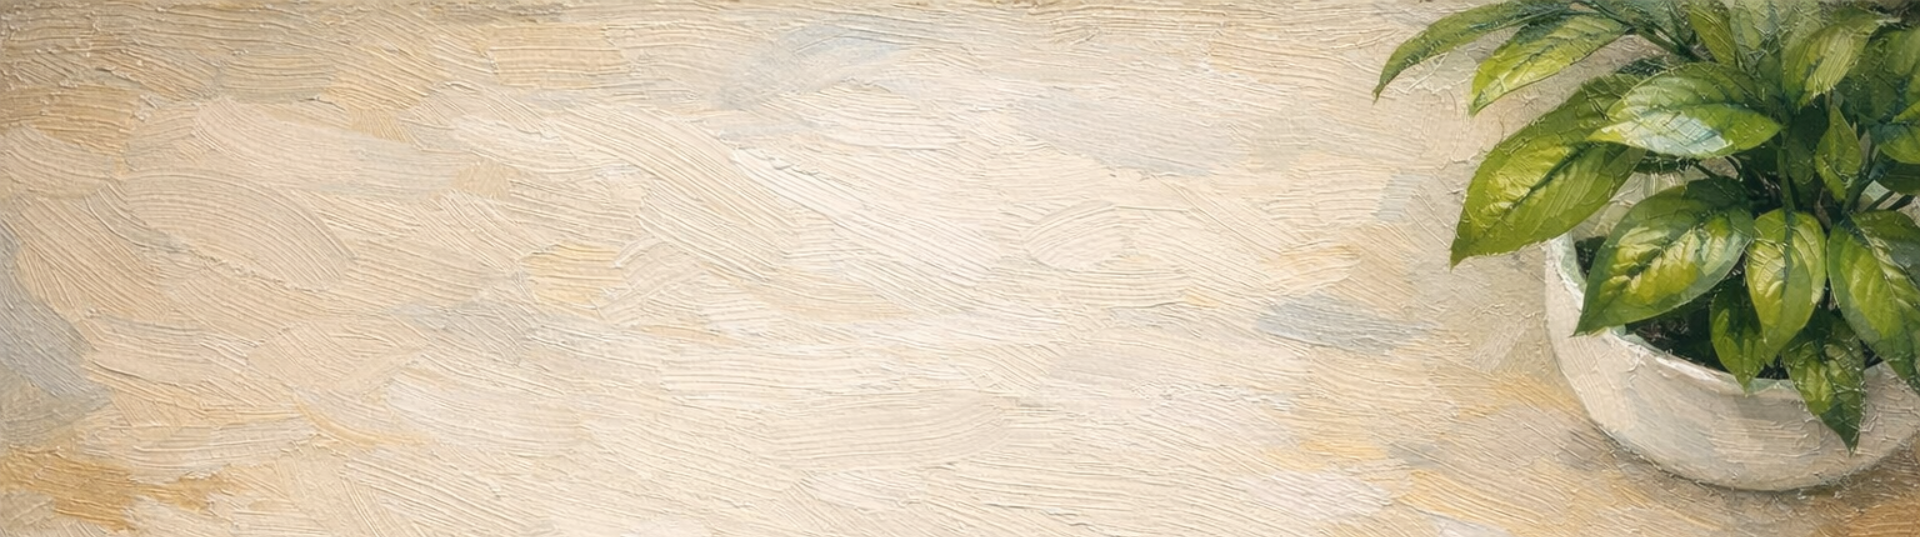
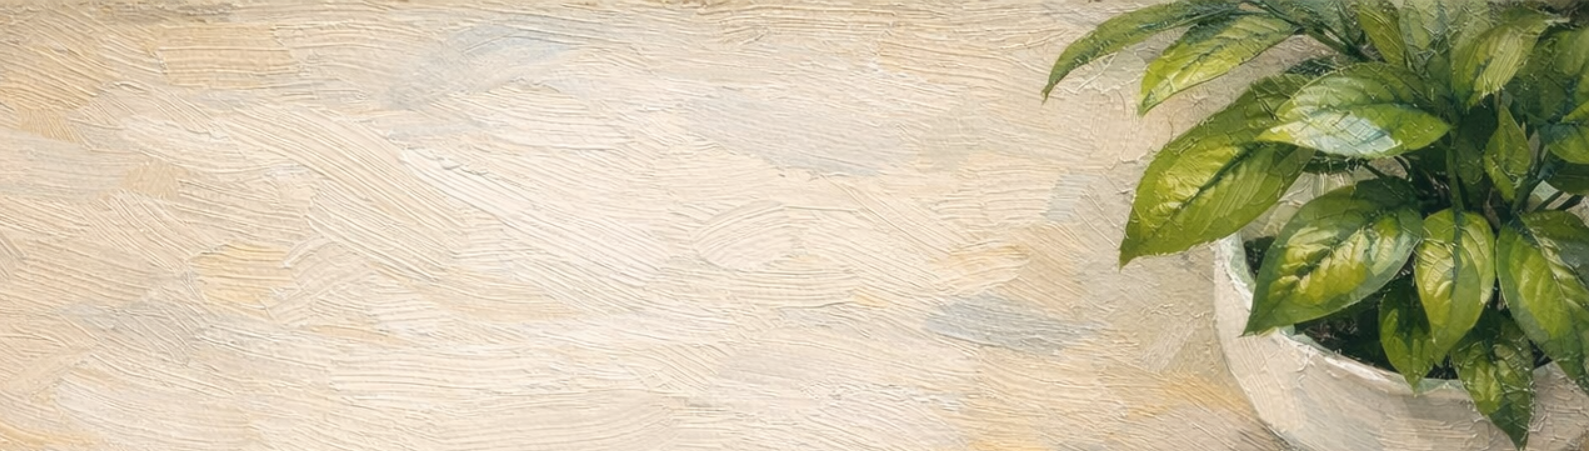
Update web background image for about page and refresh cache to v=2

diff --git a/style.css b/style.css
@@ -136,7 +136,7 @@ h4 {
 
 /* Page Header Backgrounds */
 .about-header {
-    background-image: linear-gradient(rgba(255, 255, 255, 0.41), rgba(255, 255, 255, 0.41)), url('images/観葉植物背景ウェブ版.png?v=1');
+    background-image: linear-gradient(rgba(255, 255, 255, 0.41), rgba(255, 255, 255, 0.41)), url('images/観葉植物背景ウェブ版.png?v=2');
     background-size: cover;
     background-position: center;
 }
